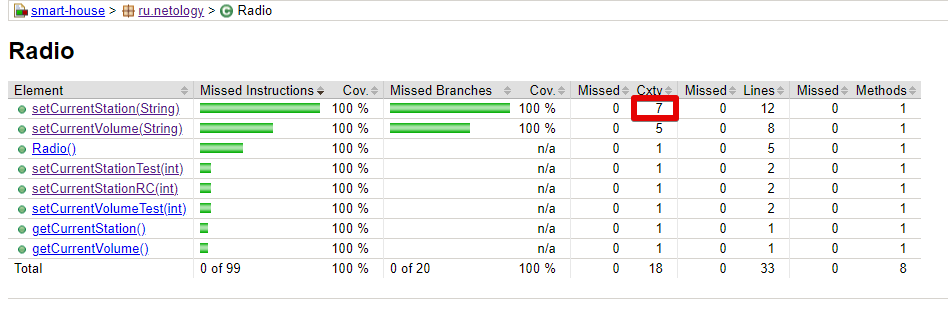
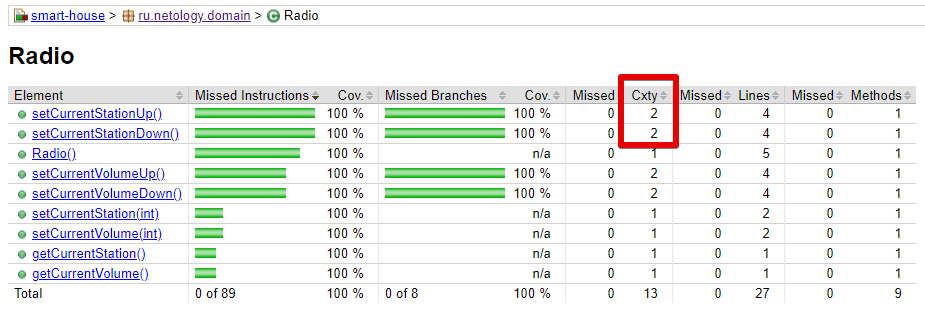
README modified

diff --git a/README.md b/README.md
@@ -11,9 +11,11 @@
 
 а D - количество точек принятия решений(Decision Points).
 
-В используемом коде метода setCurrentStation()(обработка prev и next) счетчик указывает количество необходимых тестов равное 7,
-однако юнит-тест с 6 наборами тестовых данных обеспечивает 100% покрытие кода приложения.
+В используемом коде методов setCurrentStationUp()(обработка next) и setCurrentStationDown()(обработка prev) счетчик указывает количество необходимых тестов равное 4.
+
+Созданный юнит-тест с 4 наборами тестовых данных обеспечивает 100% покрытие кода приложения.
 
 Рекомендуемый порог сложности оценивается в 10, но может изменяться в зависимости от целей
 и сложности проекта.
+
 ![](complex.png)
